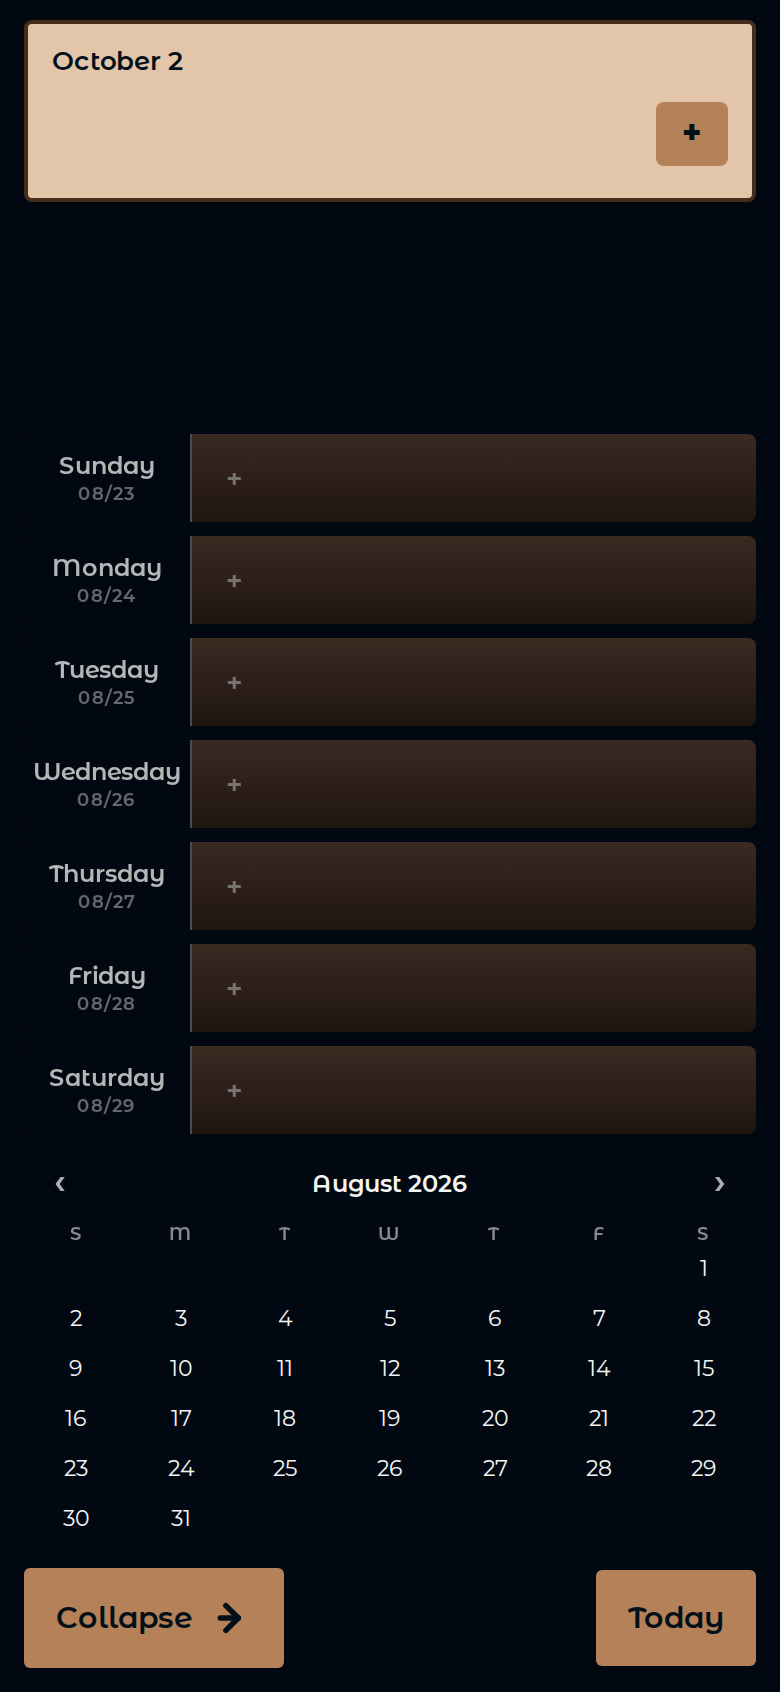
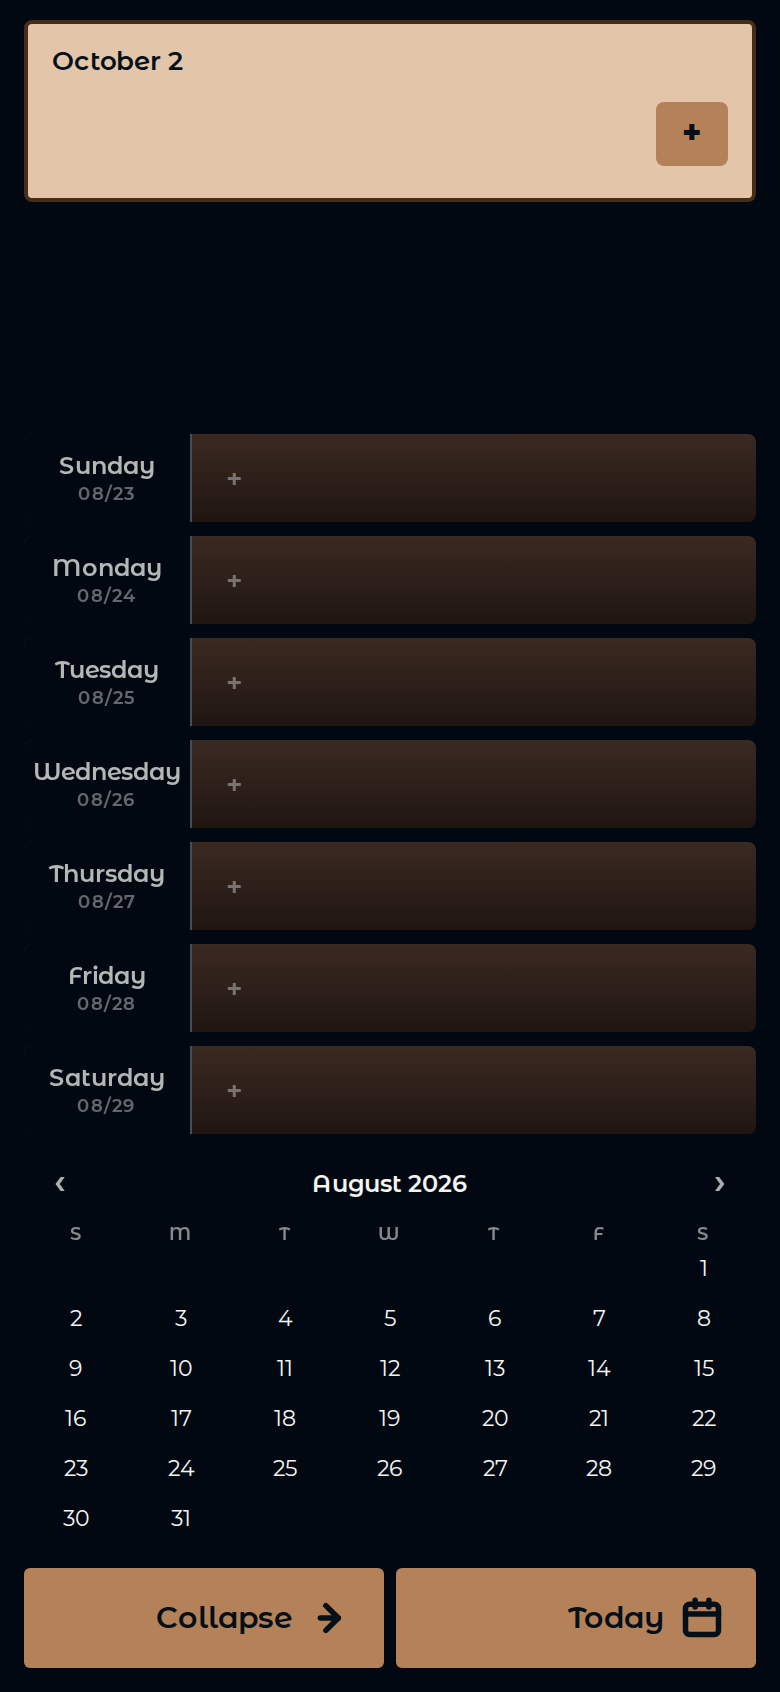
Make both exit-row controls one size (issue #342, B148)
The label-only Today shipped visibly narrower than Collapse: 110px against
130px, same 50px height. One species in one row has to read as one box.

Today is filled through fillBoardAction like every other control in the
species -- mark and label, the row's own idiom -- and both controls grow to
the same width (flex-grow: 1; flex-basis: 0), so the longer label no longer
sets a different box from the shorter one. Measured on the shipped page at
390px: both 180.0x50.0, Collapse flush to the row's left edge and Today flush
to its right.

Pins in test/month.js [M5] measure both boxes and fail if they differ by more
than half a pixel, plus an assertion that each control renders its drawn mark.
test/tokens.js pins the equal-width rule (602 passed).

Pins moved per B102: v119 -> v120.

Suites: tokens 602/0, mobile 395/0, desktop 399/0, sw-update 11/0, month 34
passed with the same pre-existing [M1] failure.

Screenshots re-shot.

Refs #342

Changed region(s): [[0.0923, 0.922, 0.9231, 1.0]]

diff --git a/test/tokens.js b/test/tokens.js
@@ -776,10 +776,10 @@ console.log('\n[10] Self-hosted type, drawn icon, shipped cache (UIUX §13, B36,
     /font-family:\s*['"]Montserrat Alternates['"],\s*system-ui/.test(css));
   ok('the icon generator defaults to the deep — the note on the canvas (B60)',
     /--ground=deep/.test(iconScript));
-  ok('CACHE is zeved-boards-v119 — version bumped (the #342 Today button pins this build)',
-    /const CACHE = 'zeved-boards-v119';/.test(sw), (sw.match(/zeved-boards-v\d+/) || [])[0]);
-  ok('the build handshake ships: OWN_BUILD stamped v119, cache-busted sw.js check, two-strike self-heal, updateViaCache none',
-    /const OWN_BUILD = 'v119';/.test(app) && /cache: 'reload'/.test(app) &&
+  ok('CACHE is zeved-boards-v120 — version bumped (the #342 Today button pins this build)',
+    /const CACHE = 'zeved-boards-v120';/.test(sw), (sw.match(/zeved-boards-v\d+/) || [])[0]);
+  ok('the build handshake ships: OWN_BUILD stamped v120, cache-busted sw.js check, two-strike self-heal, updateViaCache none',
+    /const OWN_BUILD = 'v120';/.test(app) && /cache: 'reload'/.test(app) &&
     /boards-build-mismatch/.test(app) && /updateViaCache: 'none'/.test(app));
   ok('the self-heal deletes both cache lineages: the handshake regex reads the live name, the deletion filter keeps the retired todo-boards prefix',
     /match\(\/zeved-boards-v\(\\d\+\)\/\)/.test(app) &&
@@ -926,12 +926,14 @@ console.log('\n[10] Self-hosted type, drawn icon, shipped cache (UIUX §13, B36,
   ok('the exit row carries Collapse THEN Today, both in #cal-top, Today second in the markup (issue #342, B148)',
     /<div id="cal-top"[^>]*>\s*<button type="button" class="cal-act on-light" id="cal-back"><\/button>\s*<button type="button" class="cal-act on-light" id="cal-today"><\/button>\s*<\/div>/.test(html) &&
     /calToday: document\.getElementById\('cal-today'\)/.test(app));
-  ok('Today is filled at boot with its label (issue #342, B148)',
-    /el\.calToday\.textContent = COPY\.calToday;/.test(app) &&
+  ok('Today is filled like every control in the row\'s species — mark and label, one box (issue #342, B148)',
+    /fillBoardAction\(el\.calToday, GLYPH\.calendar, COPY\.calToday\)/.test(app) &&
     /calToday: 'Today', calBack: 'Collapse',/.test(app));
   ok('Today takes the row\'s RIGHT anchor and Collapse keeps its own left one — each control holds a corner (issue #342, B148)',
     /#cal-back\s*\{ margin-right: auto;/.test(css) && /#cal-today \{ margin-left: auto; \}/.test(css) &&
     /#cal-today \{ margin-left: auto; \}/.test(css));
+  ok('both exit-row controls grow to the SAME width — one species in one row reads as one box (issue #342, B148)',
+    /#cal-back, #cal-today \{ flex-grow: 1; flex-basis: 0; \}/.test(css));
   ok('the reset is pure navigation — it clears BOTH anchors and re-renders, persisting nothing and committing no action (issue #342, B148; B81)',
     /function goCalToday\(\) \{\s*calMonthAnchor = null;\s*calWeekAnchor = null;\s*renderCal\(\);\s*\}/.test(app) &&
     /el\.calToday\.addEventListener\('click', goCalToday\)/.test(app) &&

diff --git a/test/month.js b/test/month.js
@@ -276,6 +276,21 @@ async function monthReady(page, minCells = 1) {
       ctl.exists && ctl.label === 'Today', JSON.stringify(ctl));
     ok('`Today` is the same species as Collapse — same height, clearing the §6 touch floor as drawn',
       ctl.h >= 44 && ctl.w >= 44, `${ctl.w}x${ctl.h}`);
+    // The two controls are ONE species in one row: same box, not two sizes.
+    // Regression — a label-only Today shipped visibly narrower than Collapse.
+    const box = await page.evaluate(() => {
+      const b = document.getElementById('cal-back').getBoundingClientRect();
+      const t = document.getElementById('cal-today').getBoundingClientRect();
+      return { bh: +b.height.toFixed(1), bw: +b.width.toFixed(1),
+               th: +t.height.toFixed(1), tw: +t.width.toFixed(1),
+               backSvg: !!document.querySelector('#cal-back svg'),
+               todaySvg: !!document.querySelector('#cal-today svg') };
+    });
+    ok('`Today` and `Collapse` are the same size — one species, one row (issue #342, B148)',
+      Math.abs(box.bh - box.th) < 0.5 && Math.abs(box.bw - box.tw) < 0.5,
+      `collapse ${box.bw}x${box.bh} / today ${box.tw}x${box.th}`);
+    ok('both controls render a drawn mark beside the label (issue #342, B148)',
+      box.backSvg && box.todaySvg, JSON.stringify(box));
     ok('Collapse holds the row\'s LEFT corner and `Today` its RIGHT, on the same line',
       ctl.backLeft && ctl.todayRight && ctl.sameRow, JSON.stringify(ctl));
     // The act.

diff --git a/styles.css b/styles.css
@@ -1920,8 +1920,14 @@ html.desktop #board { transition: opacity 260ms cubic-bezier(0.22, 0.61, 0.36, 1
    the view's bottom-right corner, mirroring #pane-collapse's seat on the
    board's left edge (B135). #cal-back's own margin-right:auto absorbs the
    slack between the two, so each takes its own corner. Same .cal-act species,
-   same tokens, same §6 collar — only the seat is new. */
+   same tokens, same §6 collar.
+   Both controls grow to the SAME width: they are one species in one row, so
+   the longer label sets the box and the shorter one matches it. Left to their
+   own content they measure differently (Collapse 130px, Today 110px) and read
+   as two different buttons. flex-grow on both, from the row's own left edge,
+   splits the slack between them — the row's flex context, no new token. */
 #cal-today { margin-left: auto; }
+#cal-back, #cal-today { flex-grow: 1; flex-basis: 0; }
 /* B100 (issue #157) as widened by B119 (issue #212): wide's calendar row is
    Back + Export only — the centred All Boards control retires on tablet the
    same way it retired on desktop. With it gone, Export takes the row's

diff --git a/menus.js b/menus.js
@@ -234,7 +234,8 @@ export function registerMenus() {
 
   fillBoardAction(el.calBack, GLYPH.calBack, COPY.calBack);
   // B148 (issue #342): the exit row's second control, `Today`, anchored right.
-  el.calToday.textContent = COPY.calToday;
+  // Filled like every other control in this species — mark and label, one box.
+  fillBoardAction(el.calToday, GLYPH.calendar, COPY.calToday);
   fillBoardAction(el.paneCollapse, GLYPH.paneCollapse, COPY.paneCollapse);  // B118: the expanded pane's arrow
 
   el.actionBoards.addEventListener('click', () => {

diff --git a/app.js b/app.js
@@ -369,7 +369,7 @@ if ('serviceWorker' in navigator) {
    old record renders correctly under a new build anyway. Worst case is the
    app re-downloading its own five files; a board cannot be lost to this
    path by construction. */
-const OWN_BUILD = 'v119';
+const OWN_BUILD = 'v120';
 if ('serviceWorker' in navigator && 'caches' in window) {
   const handshake = () => {
     fetch('sw.js', { cache: 'reload' }).then((res) => {

diff --git a/sw.js b/sw.js
@@ -1,6 +1,6 @@
 /* Service worker — cache-first app shell, fully offline (PRD §3 / §6.8).
    Version-stamped cache; old caches are cleaned on activate. */
-const CACHE = 'zeved-boards-v119';       // bump on every shipped app.js/styles.css change
+const CACHE = 'zeved-boards-v120';       // bump on every shipped app.js/styles.css change
 const ASSETS = [
   '.',
   'index.html',
